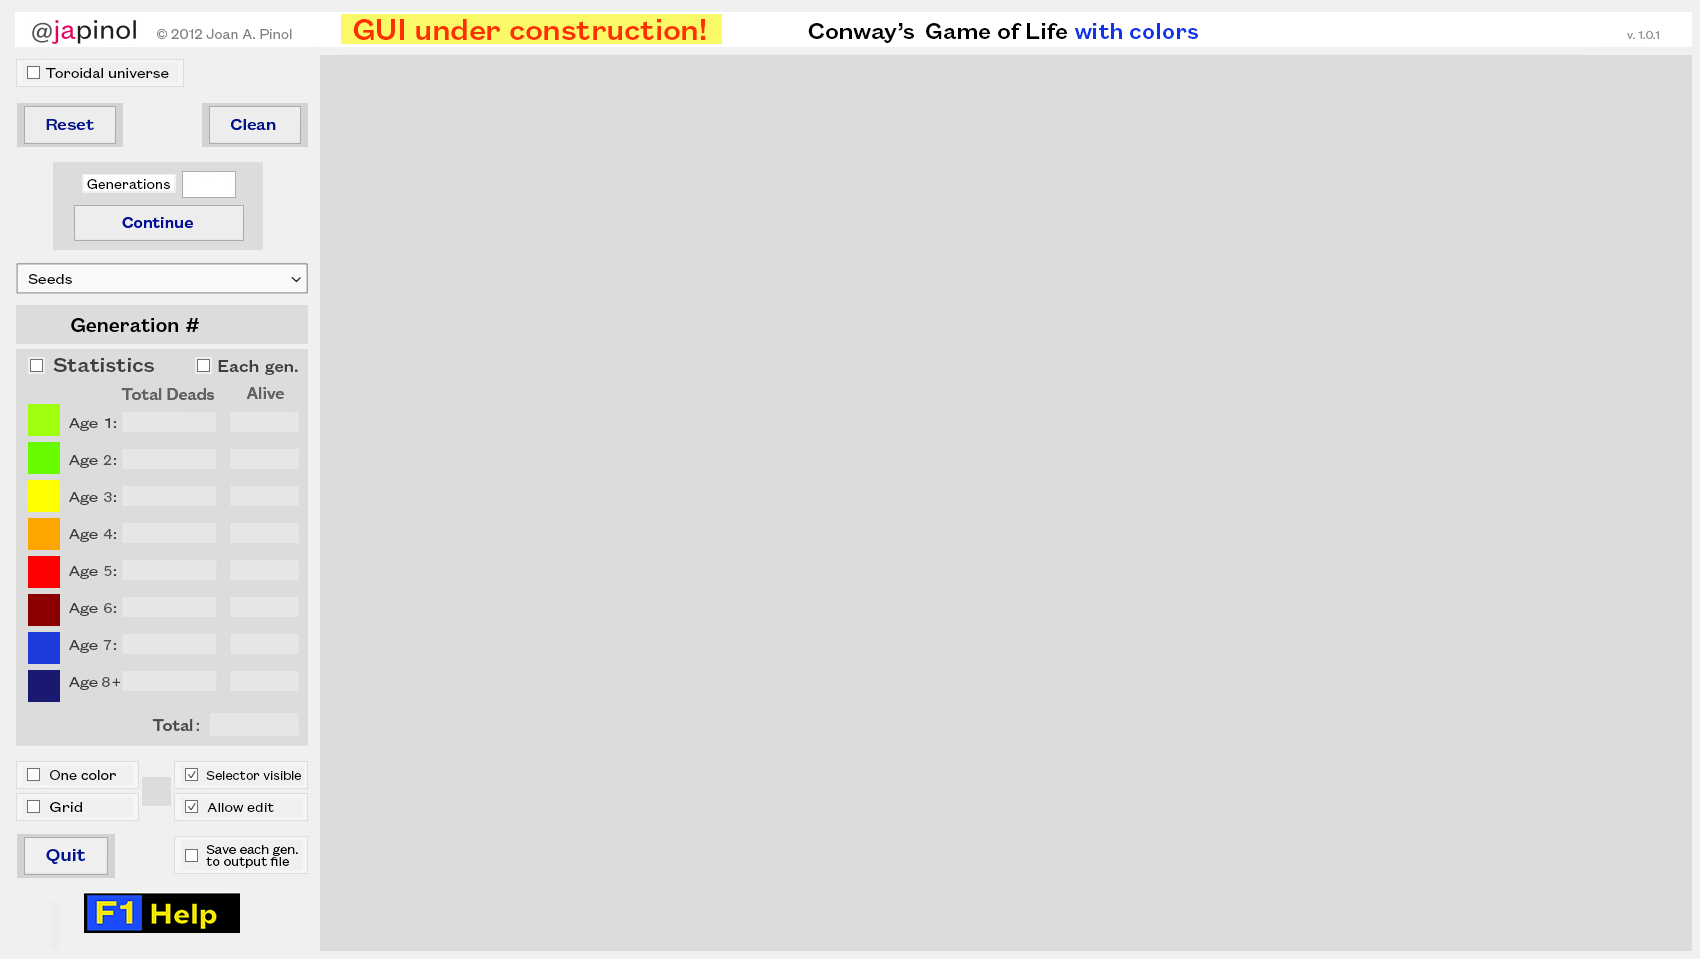
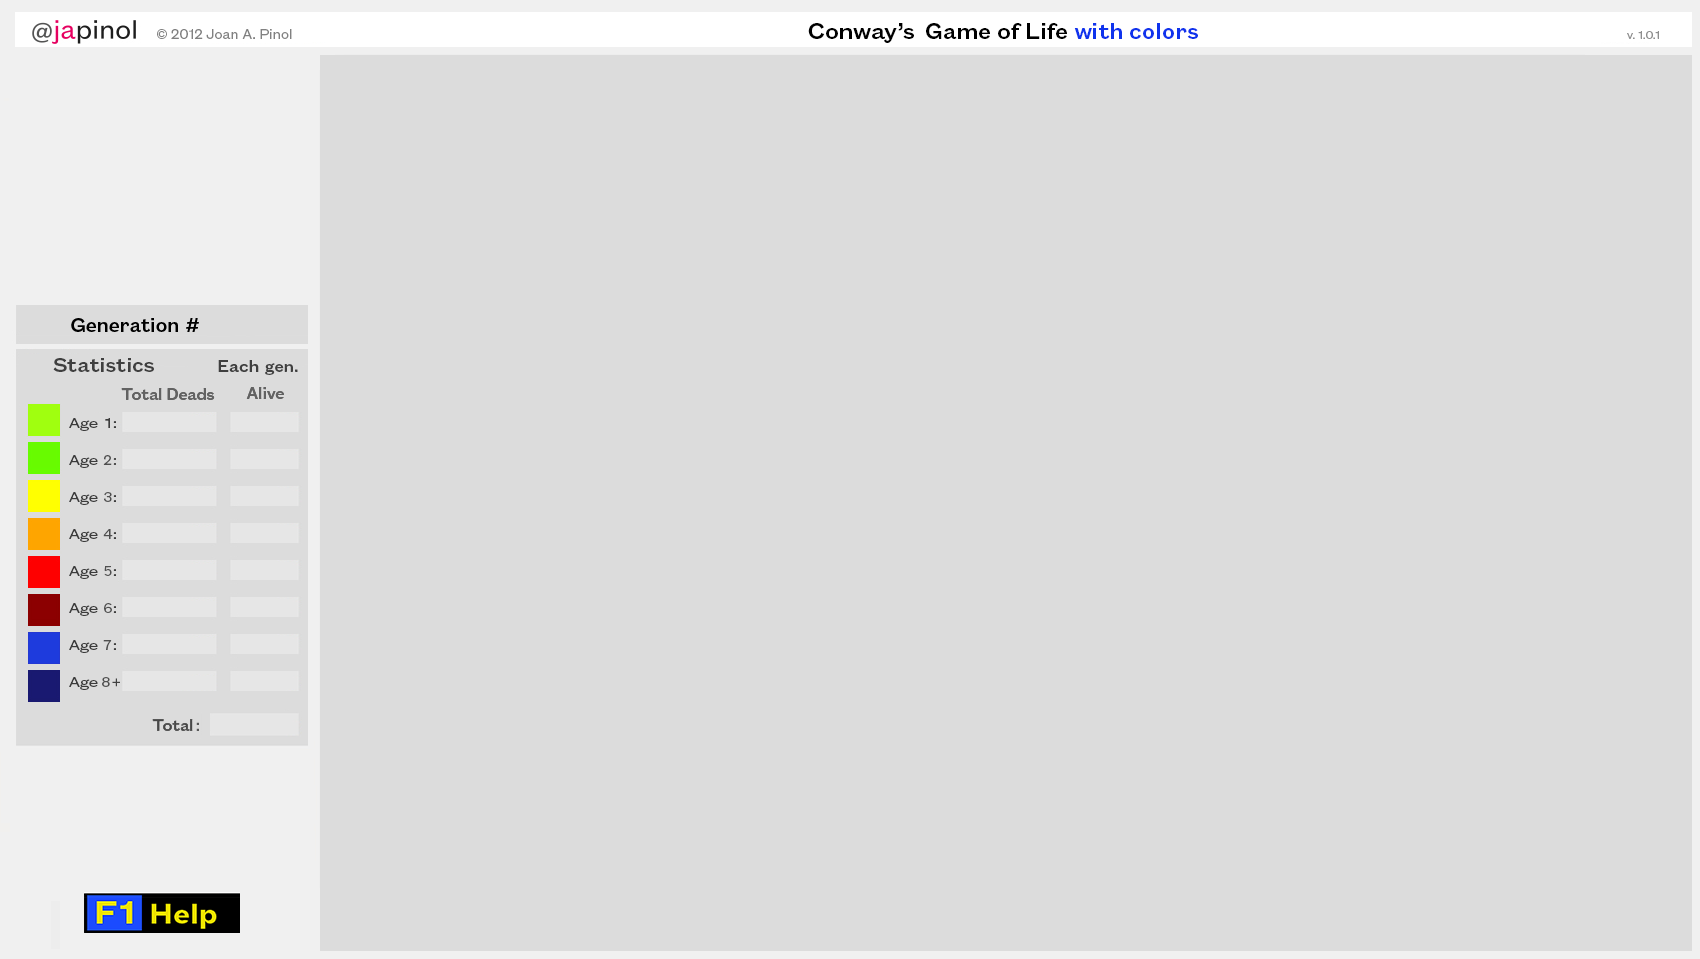
[IMP] Remove warnings for future advanced GUI components.

diff --git a/README.md b/README.md
@@ -1,13 +1,3 @@
-## Warning - Development version. GUI under construction
-
-	TODO: Implement graphical user interface (GUI) elements:
-            * Buttons, check boxes and list boxes.
-	      It will be implemented using ThorPy, probably.
-
-	So, for the moment you will have to use the keyboard keys and the line command parameters.
-	Apart from these GUI elements, this version is fully operational.
-
-
 ## Life
 
 	Conway's Game of Life with colors.
@@ -274,18 +264,11 @@
         $ python -m life --seeds "glider 10 10, glider 15 40, clock 15 65, glider 20 80, glider 25 105, glider 25 130" --stopafter 400 --toroidaluniverse --savetofile --timeinoutfile --auto
 
 
-    File paths used in the below examples are for Linux systems. Change them according to your OS:
-        $ python -m life --stopafter 550 --auto --savetofile --outfile "~/life/life_out.txt" --logfile "~/life/life_log.txt" --statsnogui
-        $ python -m life --toroidaluniverse --stopafter 550 --auto --savetofile --outfile "~/life/life_out.txt" --logfile "~/life/life_log.txt" --statsnogui
-        $ python -m life --seeds "gosper_glider_gun 7 20, clock 75 100" --stopafter 550 --auto --savetofile --outfile "~/life/life_out.txt" --logfile "~/life/life_log.txt" --statsnogui
-        $ python -m life --seeds "gosper_glider_gun 7 20, clock 75 100" --toroidaluniverse --stopafter 550 --auto --savetofile --outfile "~/life/life_out.txt" --logfile "~/life/life_log.txt" --statsnogui
-
-
-    File paths used in the below examples are for Windows systems. Change them according to your OS:
-        $ python -m life --stopafter 550 --auto --savetofile --outfile "f:\life_out.txt" --logfile "f:\life_log.txt" --statsnogui
-        $ python -m life --toroidaluniverse --stopafter 550 --auto --savetofile --outfile "f:\life_out.txt" --logfile "f:\life_log.txt" --statsnogui
-        $ python -m life --seeds "gosper_glider_gun 7 20, clock 75 100" --stopafter 550 --auto --savetofile --outfile "f:\life_out.txt" --logfile "f:\life_log.txt" --statsnogui
-        $ python -m life --seeds "gosper_glider_gun 7 20, clock 75 100" --toroidaluniverse --stopafter 550 --auto --savetofile --outfile "f:\life_out.txt" --logfile "f:\life_log.txt" --statsnogui
+    Some more examples, writing out file and logs to specified file names:
+        $ python -m life --stopafter 550 --auto --savetofile --outfile "life_out.txt" --logfile "life_log.txt" --statsnogui
+        $ python -m life --toroidaluniverse --stopafter 550 --auto --savetofile --outfile "life_out.txt" --logfile "life_log.txt" --statsnogui
+        $ python -m life --seeds "gosper_glider_gun 7 20, clock 75 100" --stopafter 550 --auto --savetofile --outfile "life_out.txt" --logfile "life_log.txt" --statsnogui
+        $ python -m life --seeds "gosper_glider_gun 7 20, clock 75 100" --toroidaluniverse --stopafter 550 --auto --savetofile --outfile "life_out.txt" --logfile "life_log.txt" --statsnogui
 
 
 **To make Life work**
@@ -295,3 +278,5 @@
 	    2. Go to its folder in your system.
 	    3. $ pip install -r requirements.txt
 	    4. $ python -m life
+	    5. Note: Press ESC or close the 'Life' program window to quit.
+	       * If auto mode is activated, you must press ESC or Quit 4 times.
